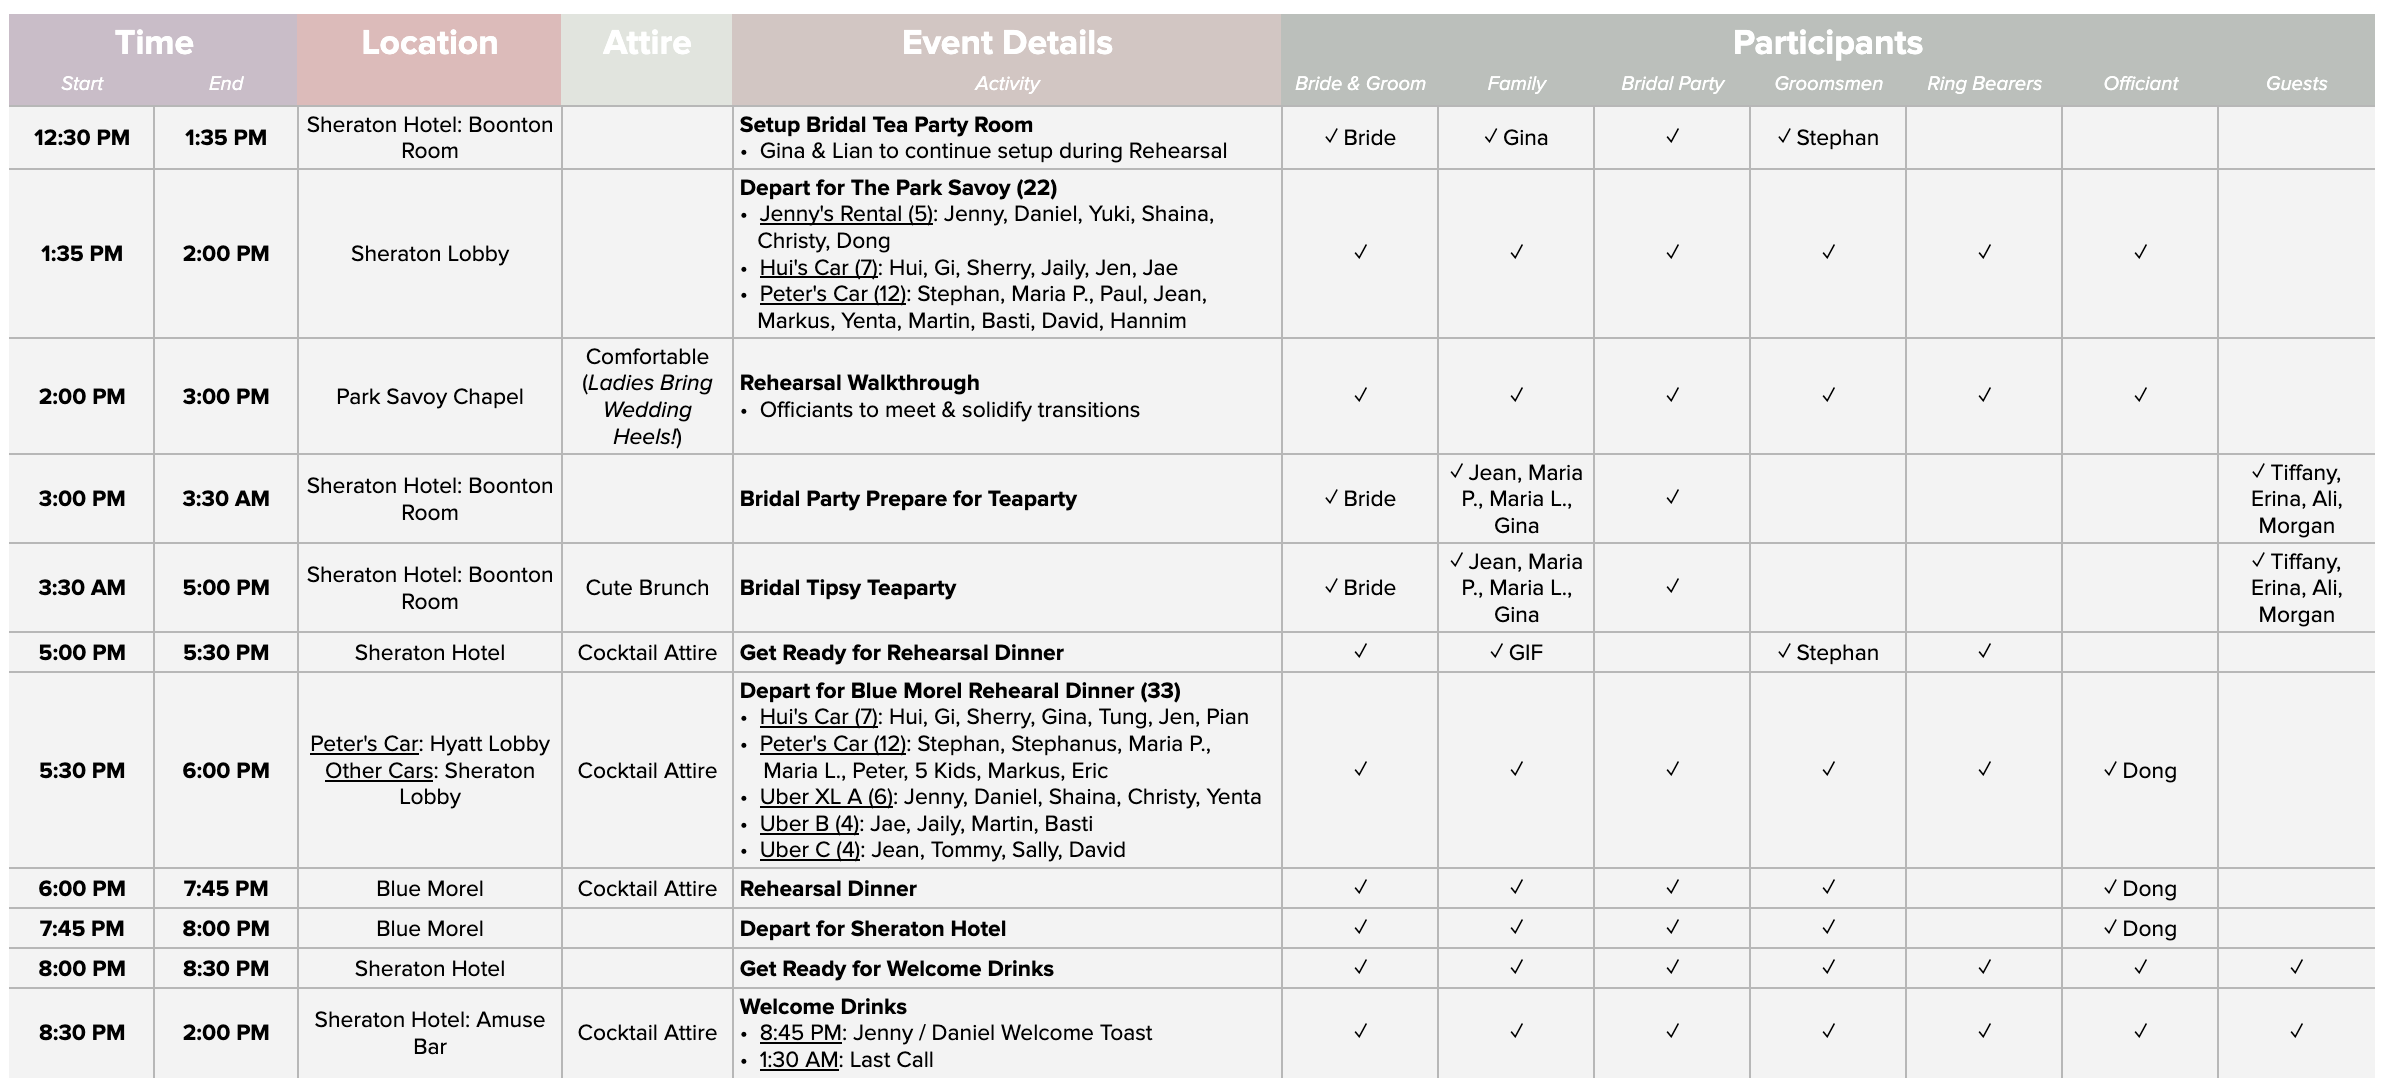
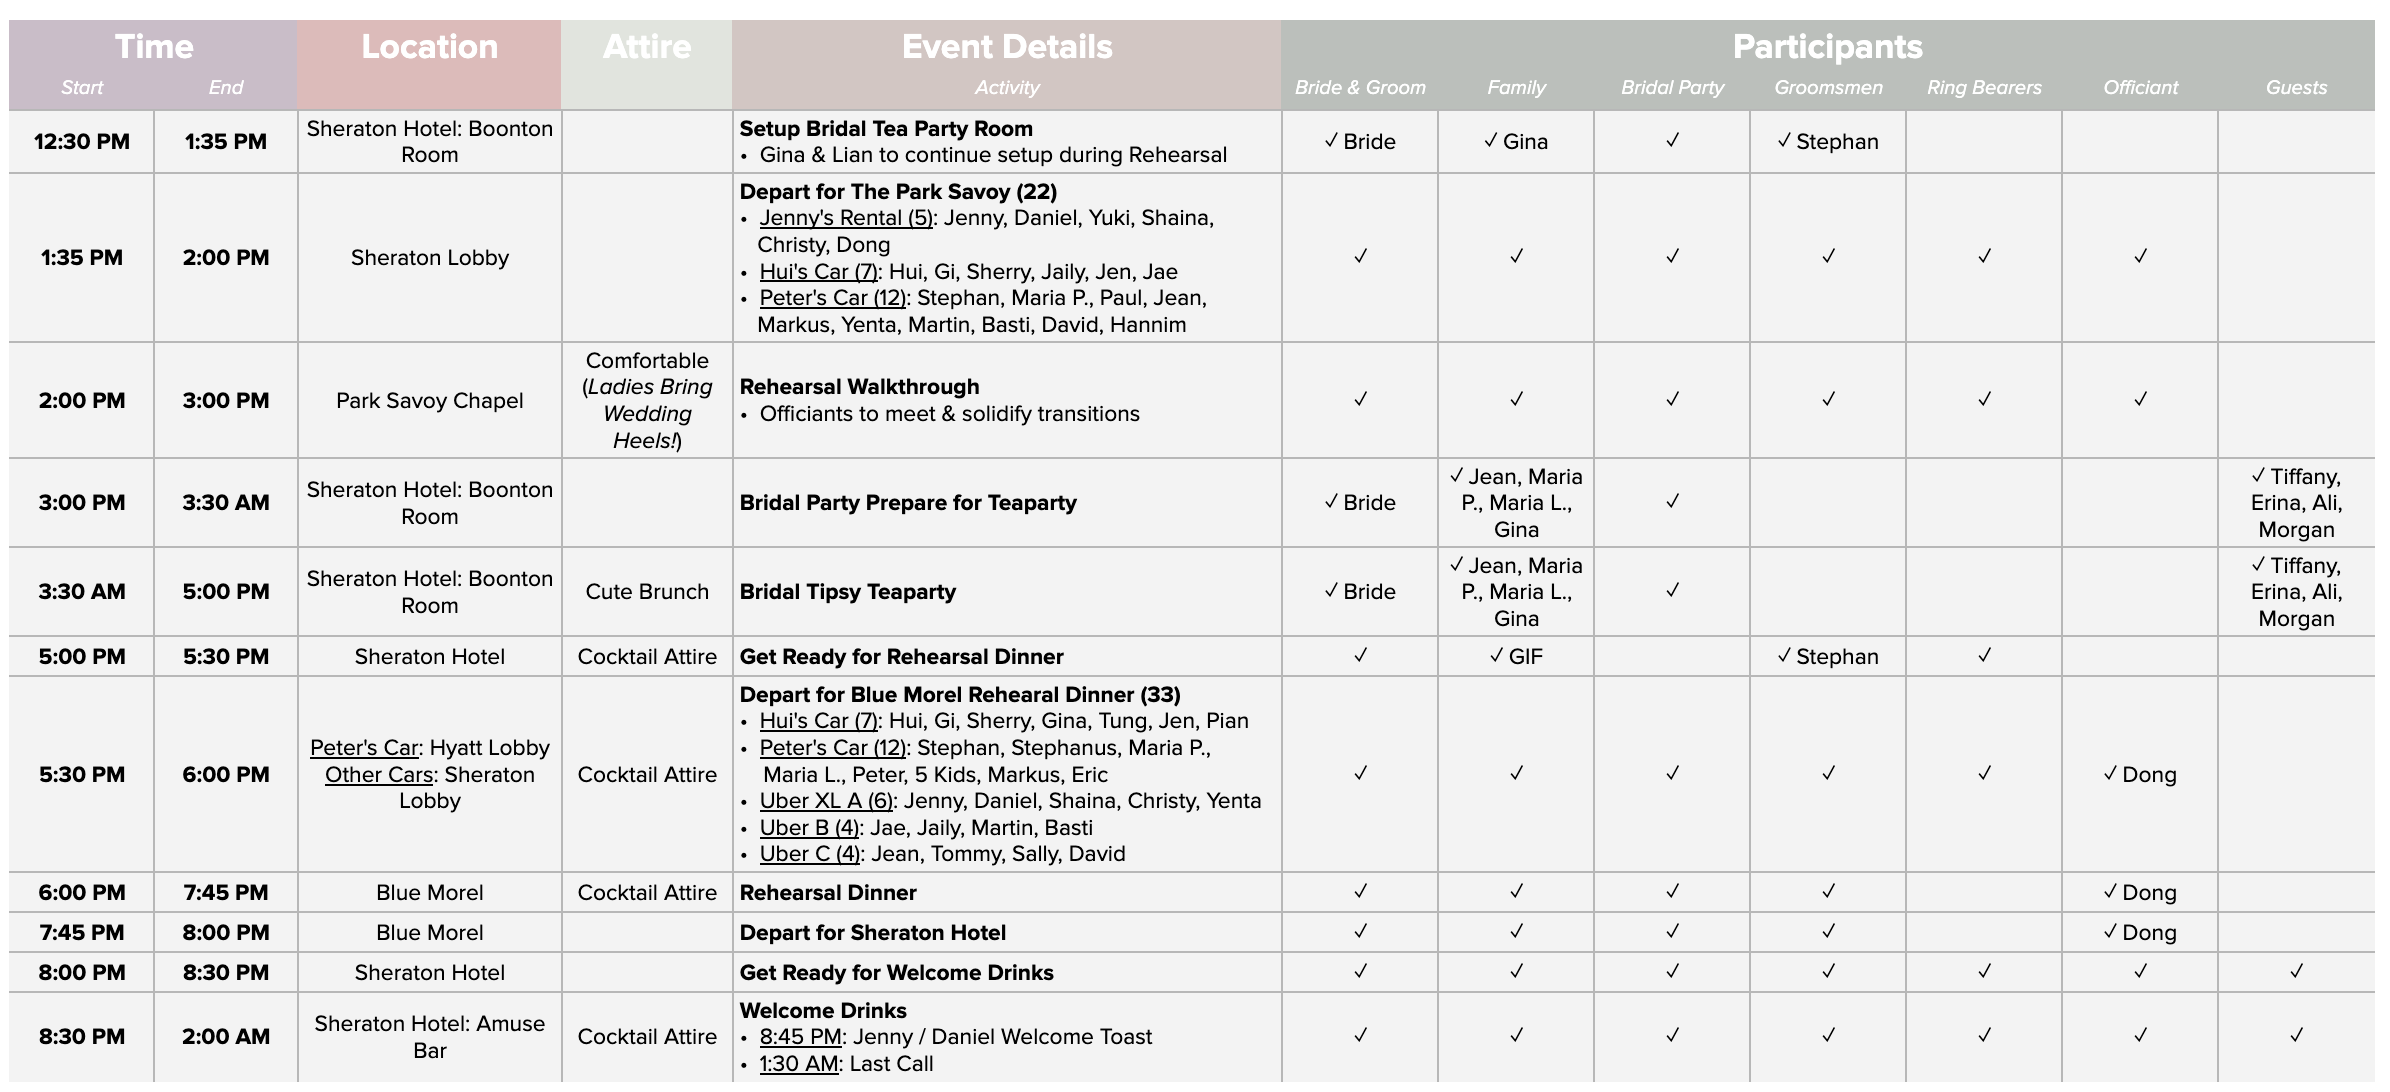
updated schedule times

diff --git a/vendors-photog.html b/vendors-photog.html
@@ -131,7 +131,7 @@
                                 </div>
                             </div>
                             <div class="col-md-9 animate-box fadeInLeft animated" data-animate-effect="fadeInLeft">
-                                <img class="img-fluid mb-30" src="w_images/vendor_sched_ceremony_photog.jpeg" alt="">
+                                <img class="img-fluid mb-30" src="w_images/vendor_sched_ceremony_deets.png" alt="">
                                 <br><br><br>
                             </div>
                         </div>
